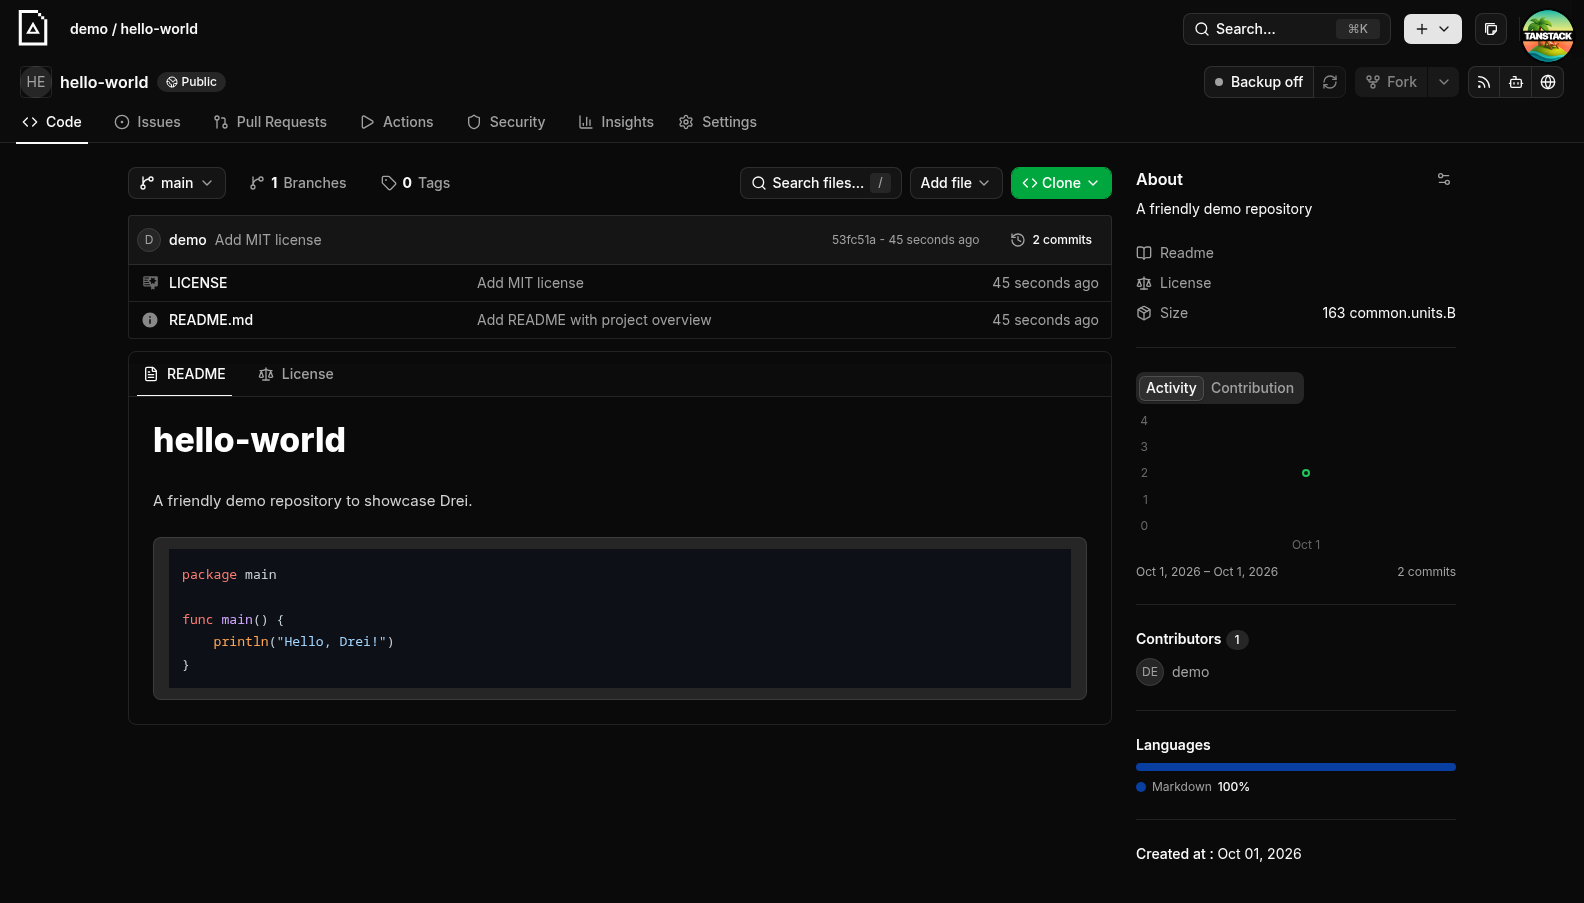
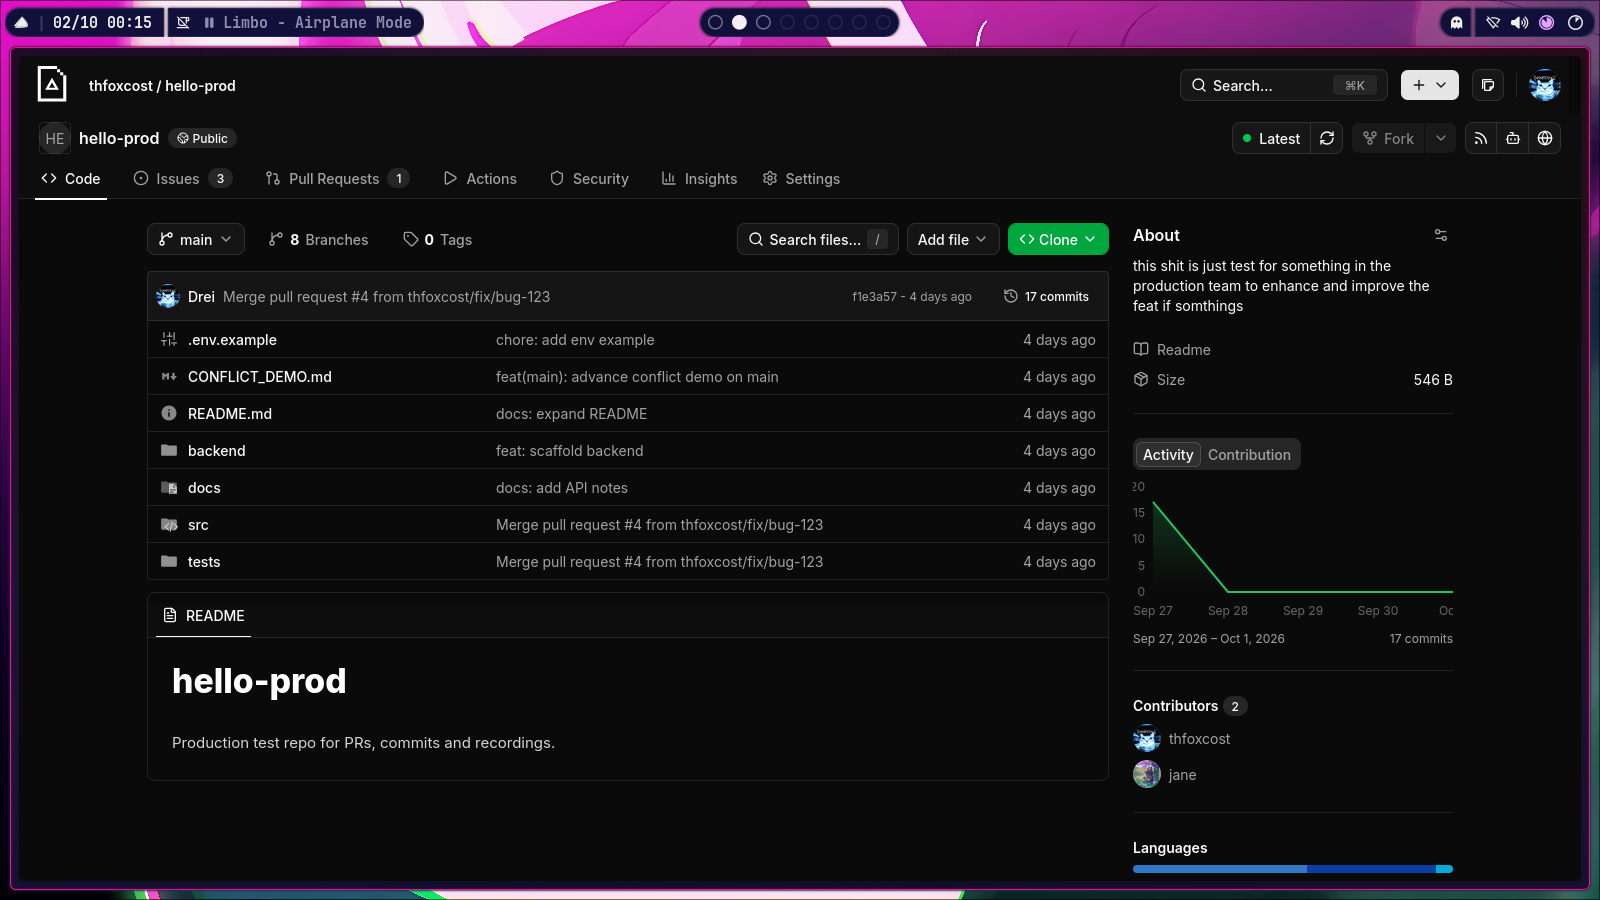
docs: replace screenshots with current captures and add dark mode
Use the freshly captured dashboard (light), repository, and dark-mode
dashboard screenshots in the Preview section of the English, German,
Arabic, and French READMEs. The empty-repository capture is no longer
available, so its references are dropped.

diff --git a/README.md b/README.md
@@ -58,11 +58,11 @@ Learn more at **[drei.sh](https://drei.sh)**.
 </p>
 
 <p align="center">
-  <img src="assets/screenshots/empty.png" alt="Empty repository" width="900">
+  <img src="assets/screenshots/repo.png" alt="Repository page" width="900">
 </p>
 
 <p align="center">
-  <img src="assets/screenshots/repo.png" alt="Repository page" width="900">
+  <img src="assets/screenshots/home-dark.png" alt="Drei home page in dark mode" width="900">
 </p>
 
 </details>

diff --git a/docs/README.ar.md b/docs/README.ar.md
@@ -19,11 +19,11 @@
 </p>
 
 <p align="center">
-  <img src="assets/screenshots/empty.png" alt="مستودع فارغ" width="900">
+  <img src="assets/screenshots/repo.png" alt="المستودع" width="900">
 </p>
 
 <p align="center">
-  <img src="assets/screenshots/repo.png" alt="المستودع" width="900">
+  <img src="assets/screenshots/home-dark.png" alt="الصفحة الرئيسية بالوضع الداكن" width="900">
 </p>
 
 </details>

diff --git a/docs/README.de.md b/docs/README.de.md
@@ -19,11 +19,11 @@
 </p>
 
 <p align="center">
-  <img src="assets/screenshots/empty.png" alt="Leeres Repository" width="900">
+  <img src="assets/screenshots/repo.png" alt="Repository" width="900">
 </p>
 
 <p align="center">
-  <img src="assets/screenshots/repo.png" alt="Repository" width="900">
+  <img src="assets/screenshots/home-dark.png" alt="Startseite im dunklen Modus" width="900">
 </p>
 
 </details>

diff --git a/docs/README.fr.md b/docs/README.fr.md
@@ -19,11 +19,11 @@
 </p>
 
 <p align="center">
-  <img src="assets/screenshots/empty.png" alt="Dépôt vide" width="900">
+  <img src="assets/screenshots/repo.png" alt="Dépôt" width="900">
 </p>
 
 <p align="center">
-  <img src="assets/screenshots/repo.png" alt="Dépôt" width="900">
+  <img src="assets/screenshots/home-dark.png" alt="Accueil en mode sombre" width="900">
 </p>
 
 </details>
